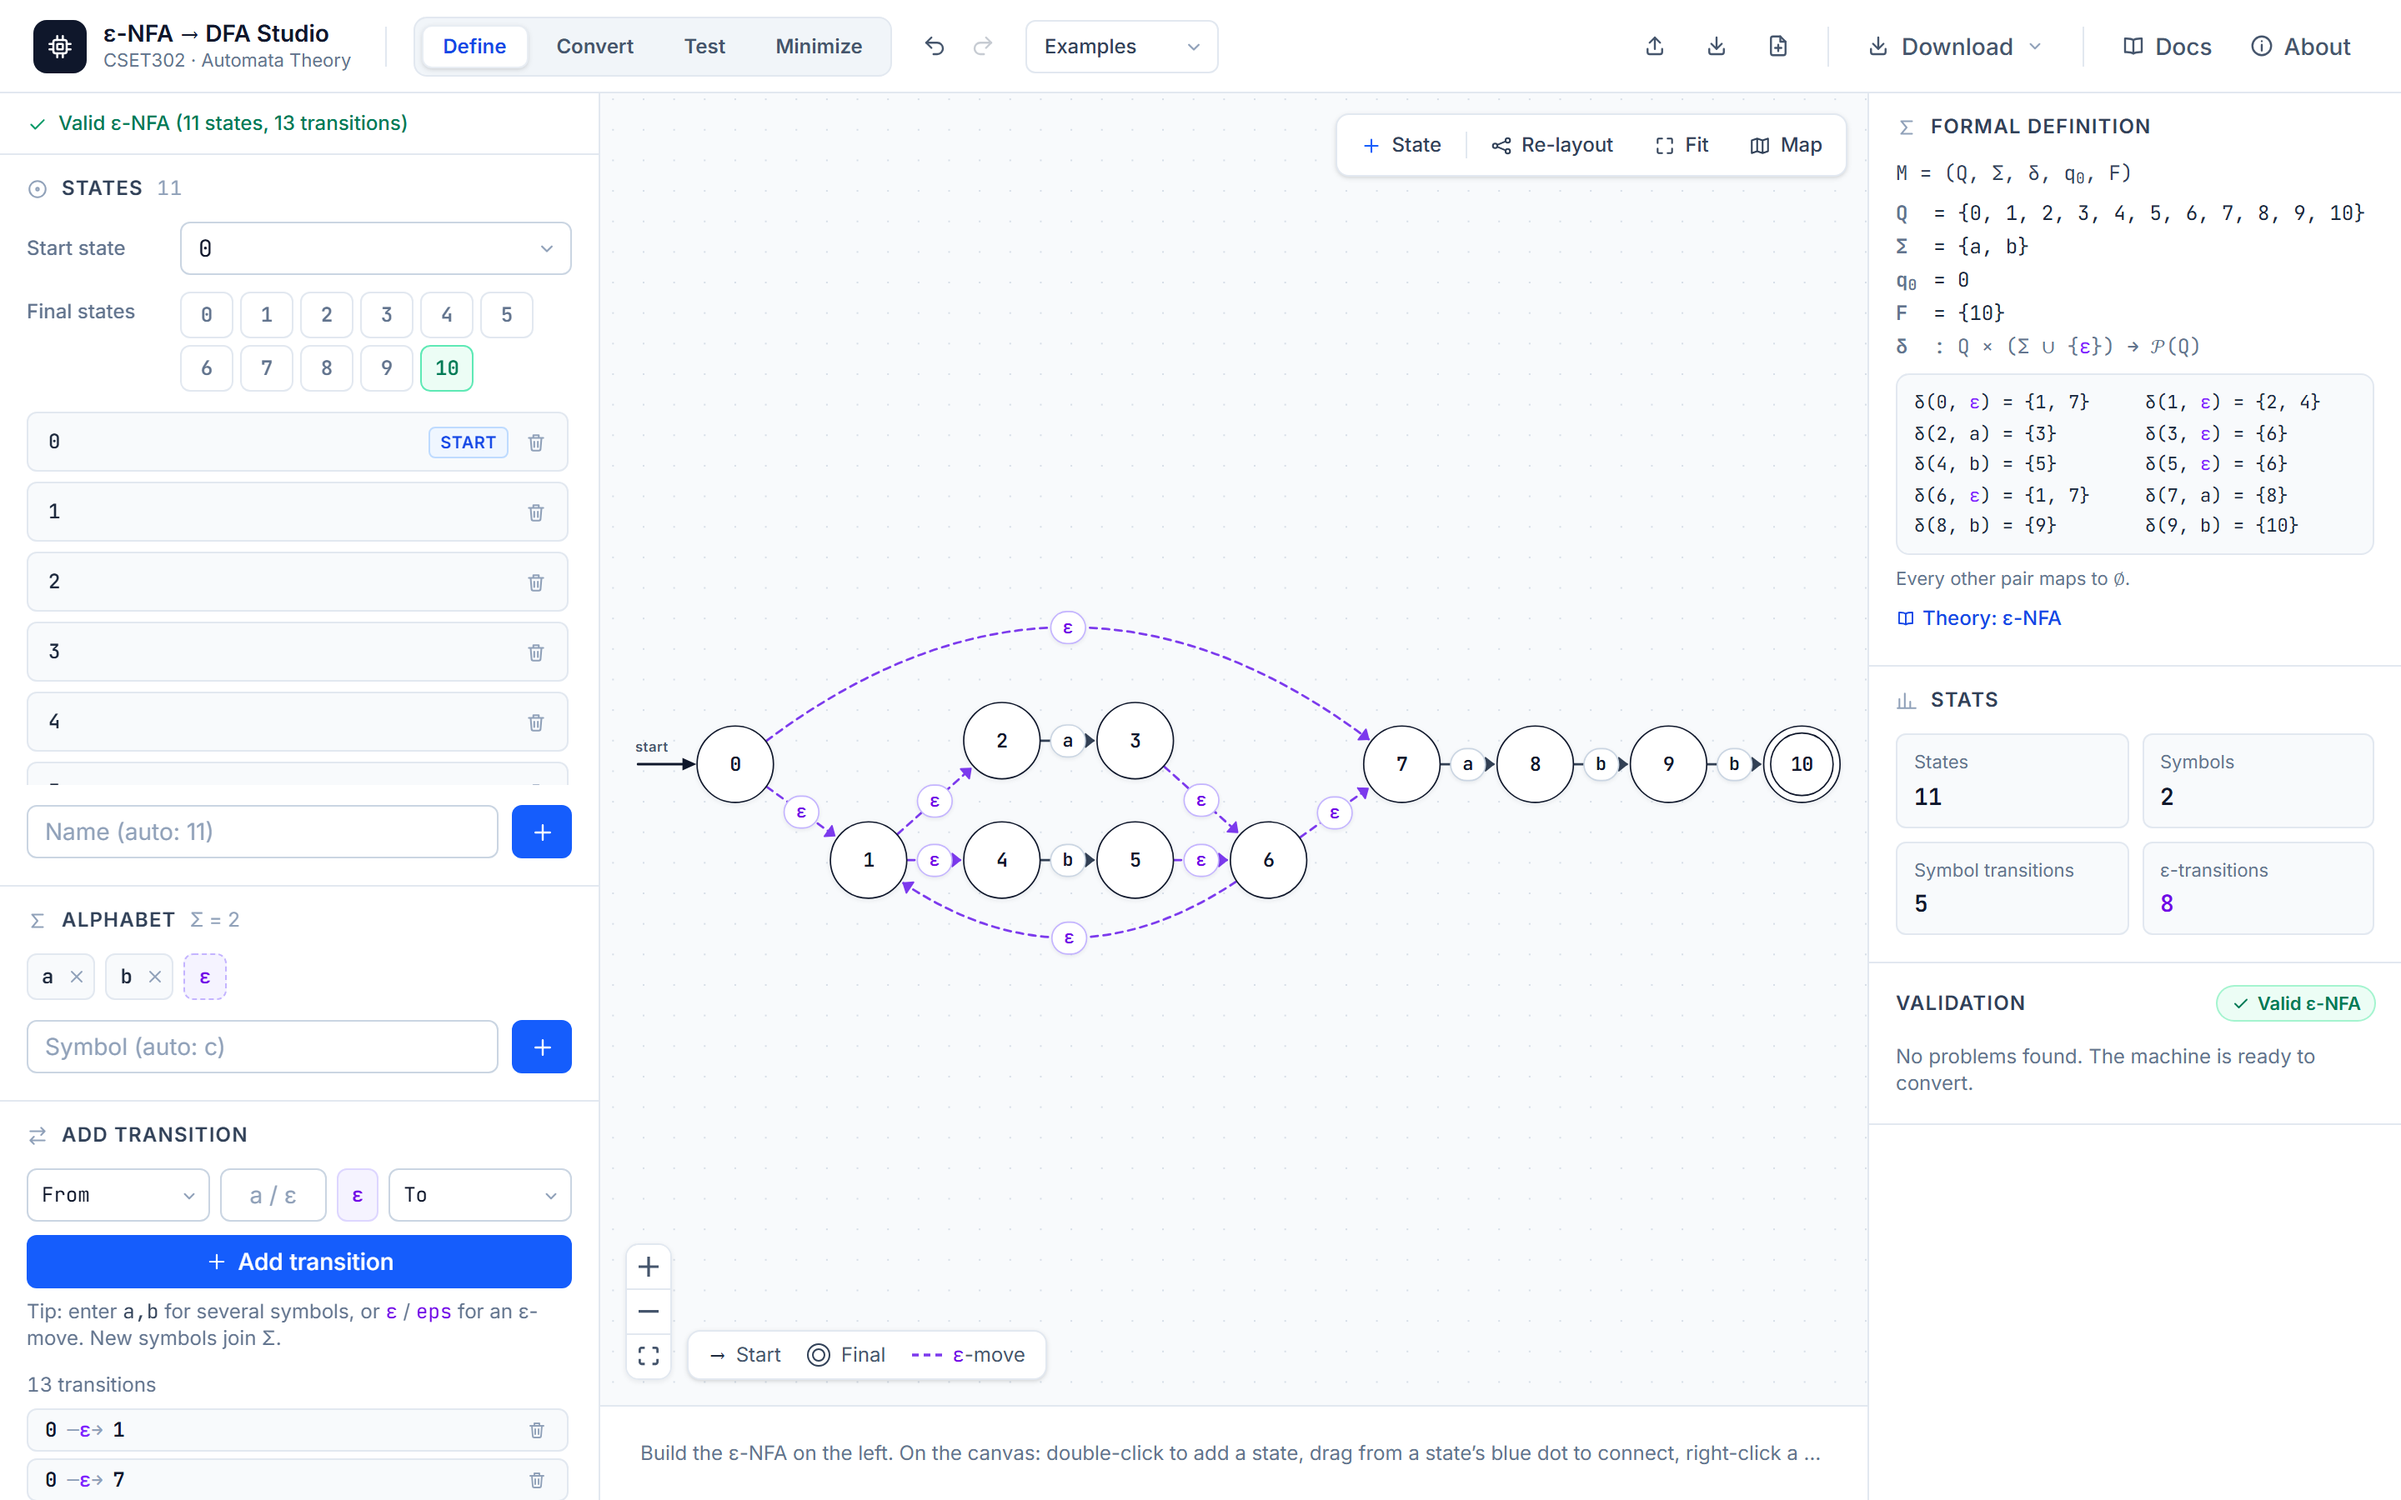
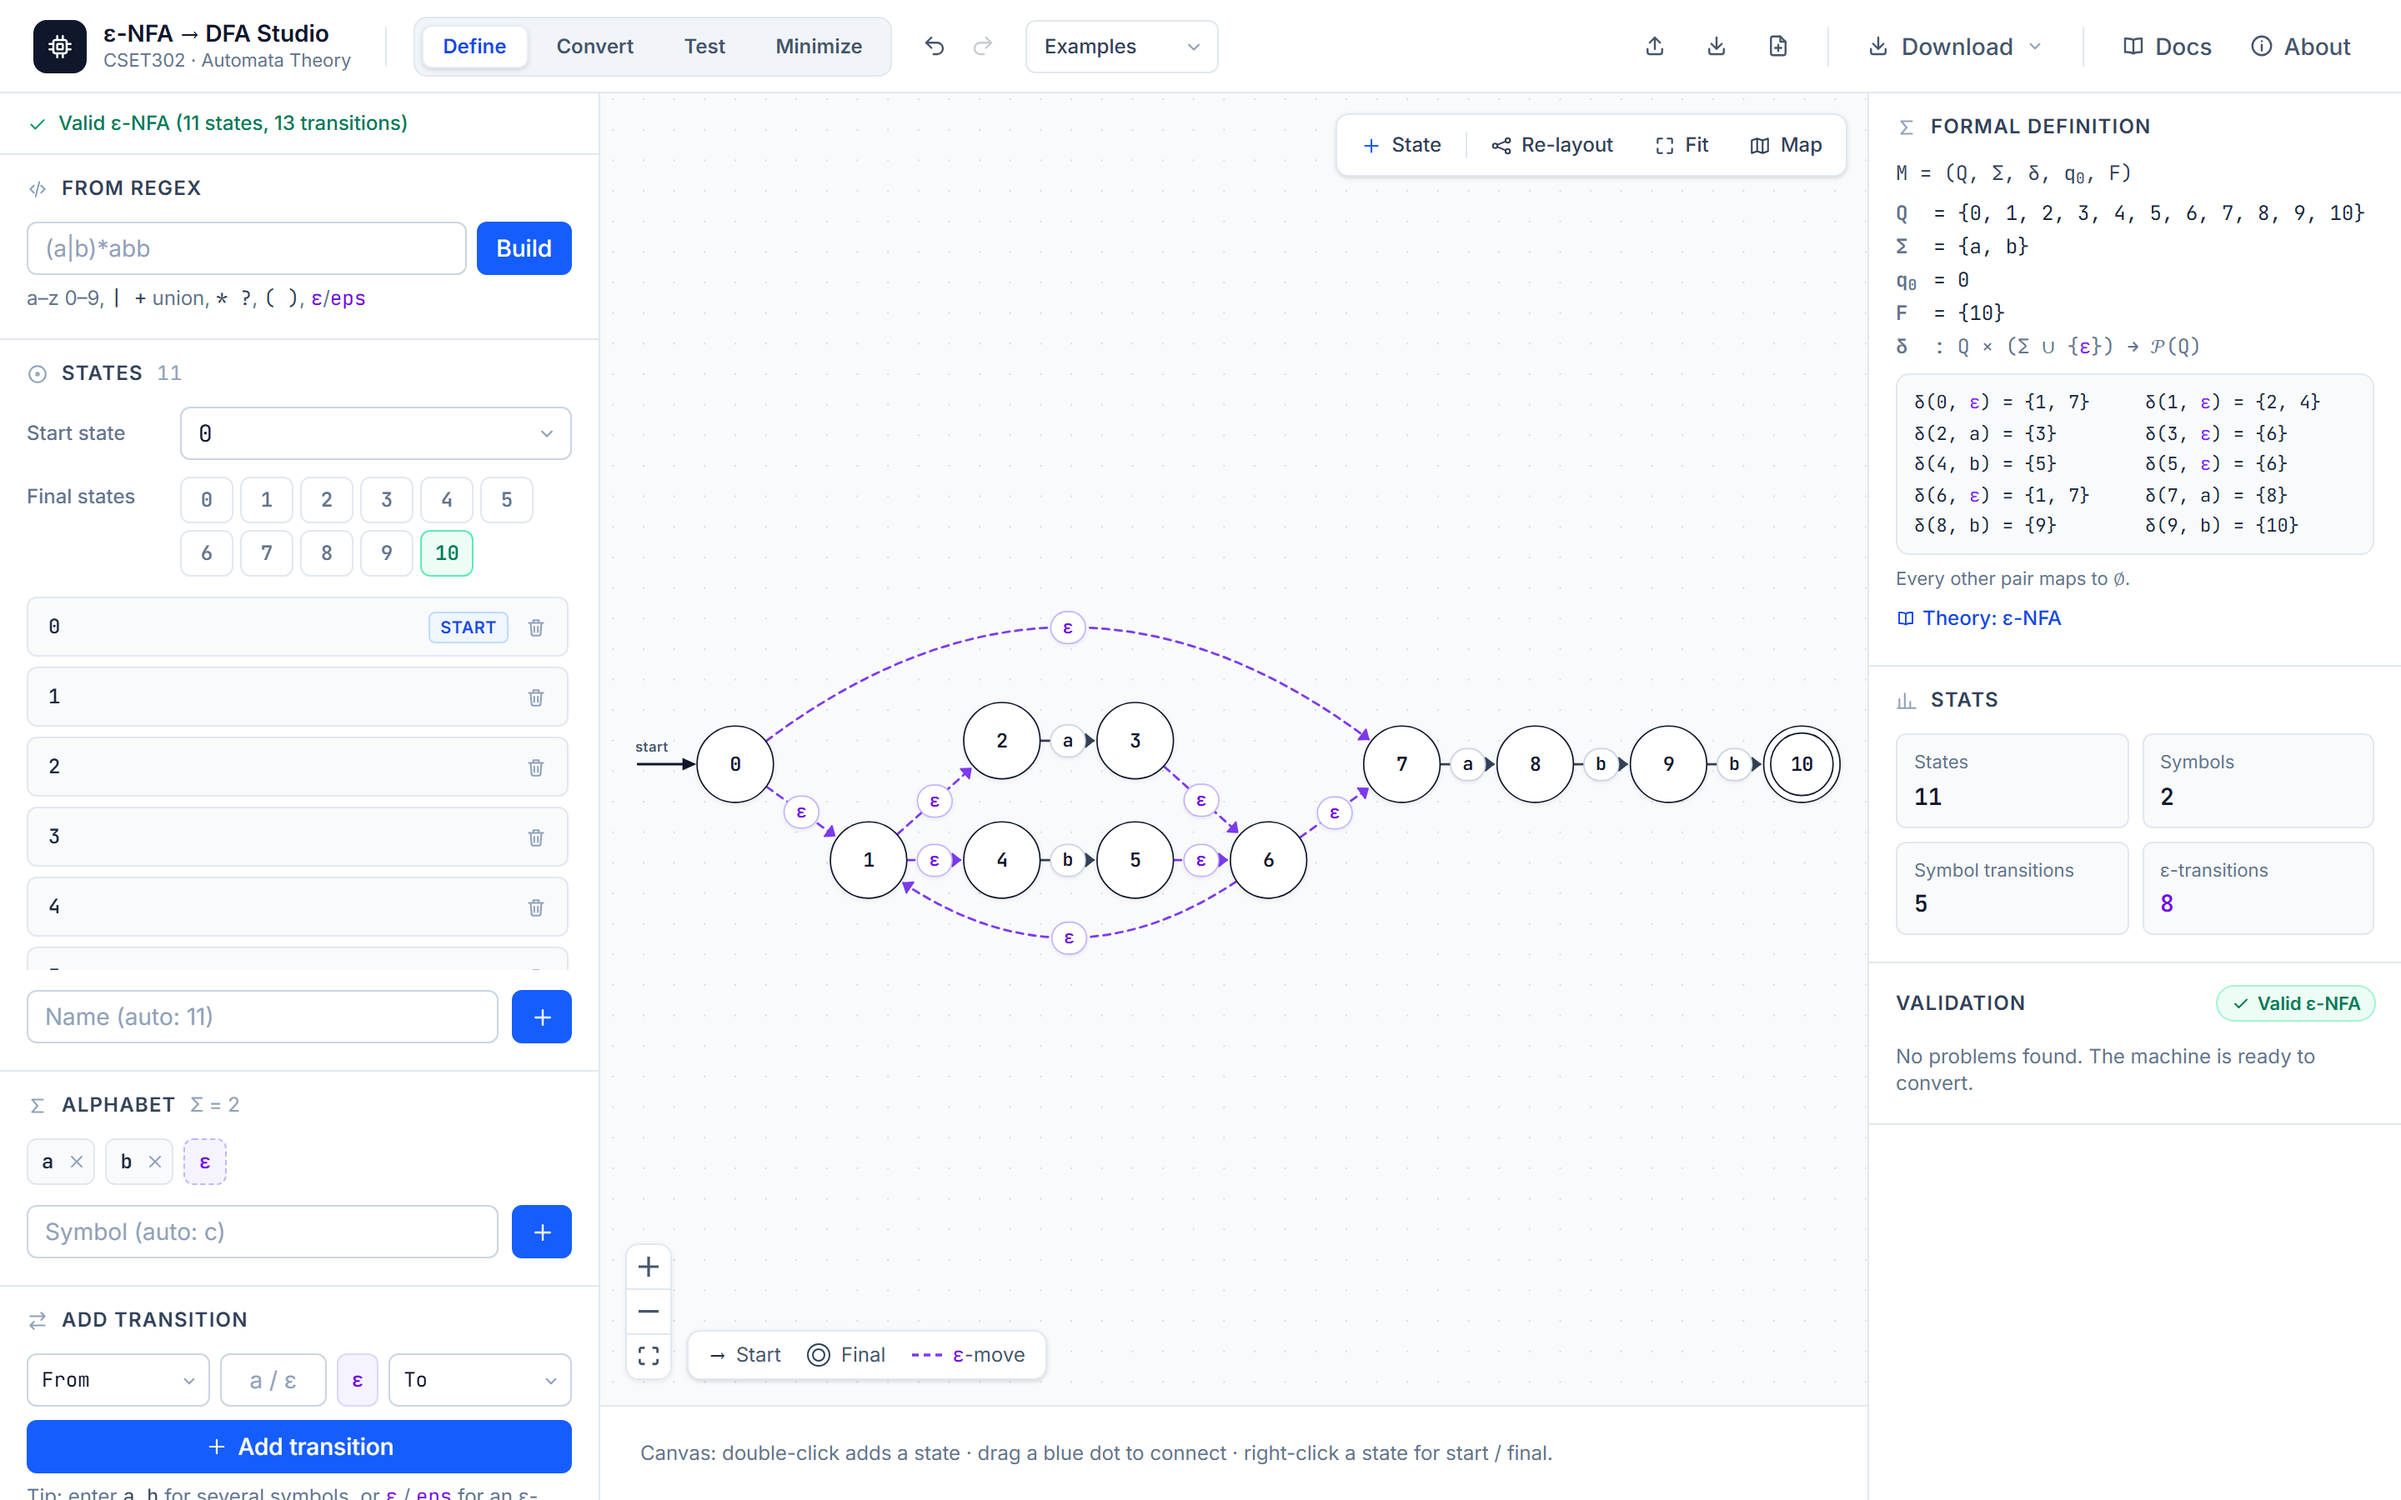
Refresh screenshots
Retake every figure against the final UI, with 01-define-table scrolled
to the top of the builder, and add 19-from-regex and 20-working-table.

diff --git a/SourceCode/e2e/screenshots.ts b/SourceCode/e2e/screenshots.ts
@@ -22,7 +22,7 @@ async function shot(page: Page, name: string, settle?: number): Promise<void> {
 }
 
 /** Scrolls the right sidebar so the section with this heading is at its top. */
-async function scrollInspectorTo(page: Page, heading: string): Promise<void> {
+async function scrollInspectorTo(page: Page, heading: string | RegExp): Promise<void> {
   await page
     .getByRole('complementary', { name: 'Inspector' })
     .getByRole('heading', { name: heading })
@@ -40,10 +40,8 @@ async function abb(page: Page): Promise<void> {
 
 test('01 define table', async ({ page }) => {
   await abb(page)
-  await page
-    .getByRole('complementary', { name: 'Builder' })
-    .getByRole('heading', { name: 'Transition table' })
-    .evaluate((h) => h.scrollIntoView({ block: 'start' }))
+  // Builder scrolled to the very top, so no section header is cut off.
+  await page.getByRole('complementary', { name: 'Builder' }).evaluate((aside) => (aside.scrollTop = 0))
   await fitAll(page)
   await shot(page, '01-define-table')
 })
@@ -196,4 +194,25 @@ test('18 about', async ({ page }) => {
   await page.getByRole('button', { name: 'About' }).click()
   await expect(page.getByRole('dialog')).toBeVisible()
   await shot(page, '18-about')
+})
+
+test('19 from regex', async ({ page }) => {
+  await openApp(page)
+  await loadPreset(page, 'epsilon-cycle')
+  await page.getByRole('textbox', { name: 'Regular expression' }).fill('(a|b)*abb')
+  await page.getByRole('button', { name: 'Build', exact: true }).click()
+  await expect(page.locator('.toast').last()).toContainText('Built the Thompson ε-NFA')
+  await page.getByRole('complementary', { name: 'Builder' }).evaluate((aside) => (aside.scrollTop = 0))
+  await fitAll(page)
+  // Keep the typed regex visible: dismissing the toast does not clear the input.
+  await shot(page, '19-from-regex')
+})
+
+test('20 working table', async ({ page }) => {
+  await abb(page)
+  await openTab(page, 'Convert')
+  await skipToEnd(page)
+  await page.getByRole('button', { name: /Working table/ }).click()
+  await scrollInspectorTo(page, /Working table/)
+  await shot(page, '20-working-table', 700)
 })
